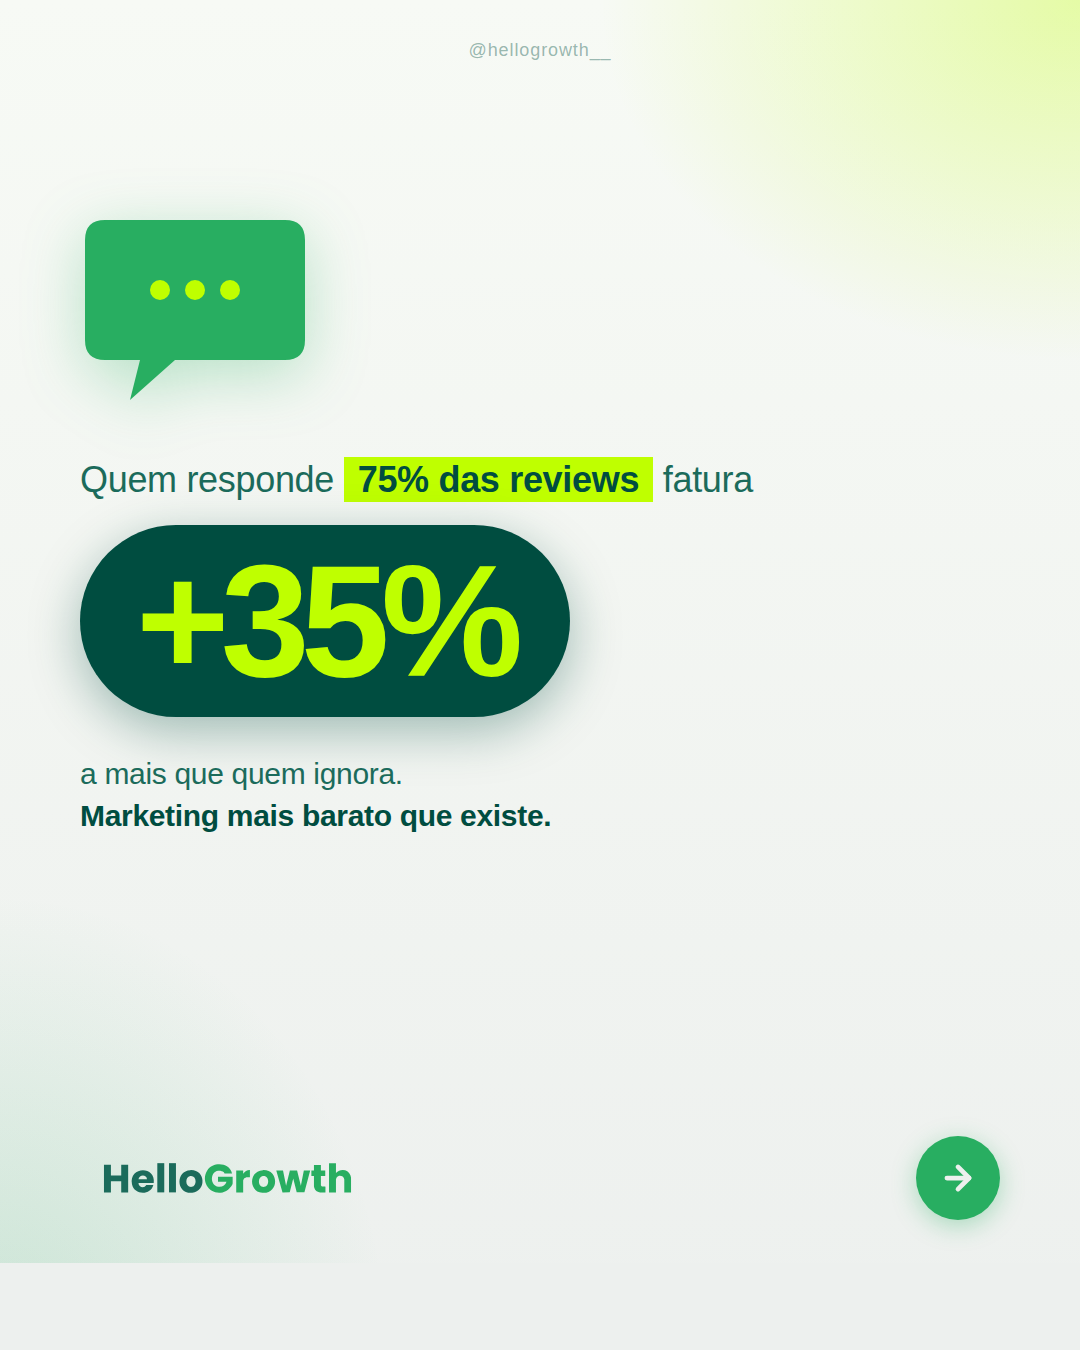
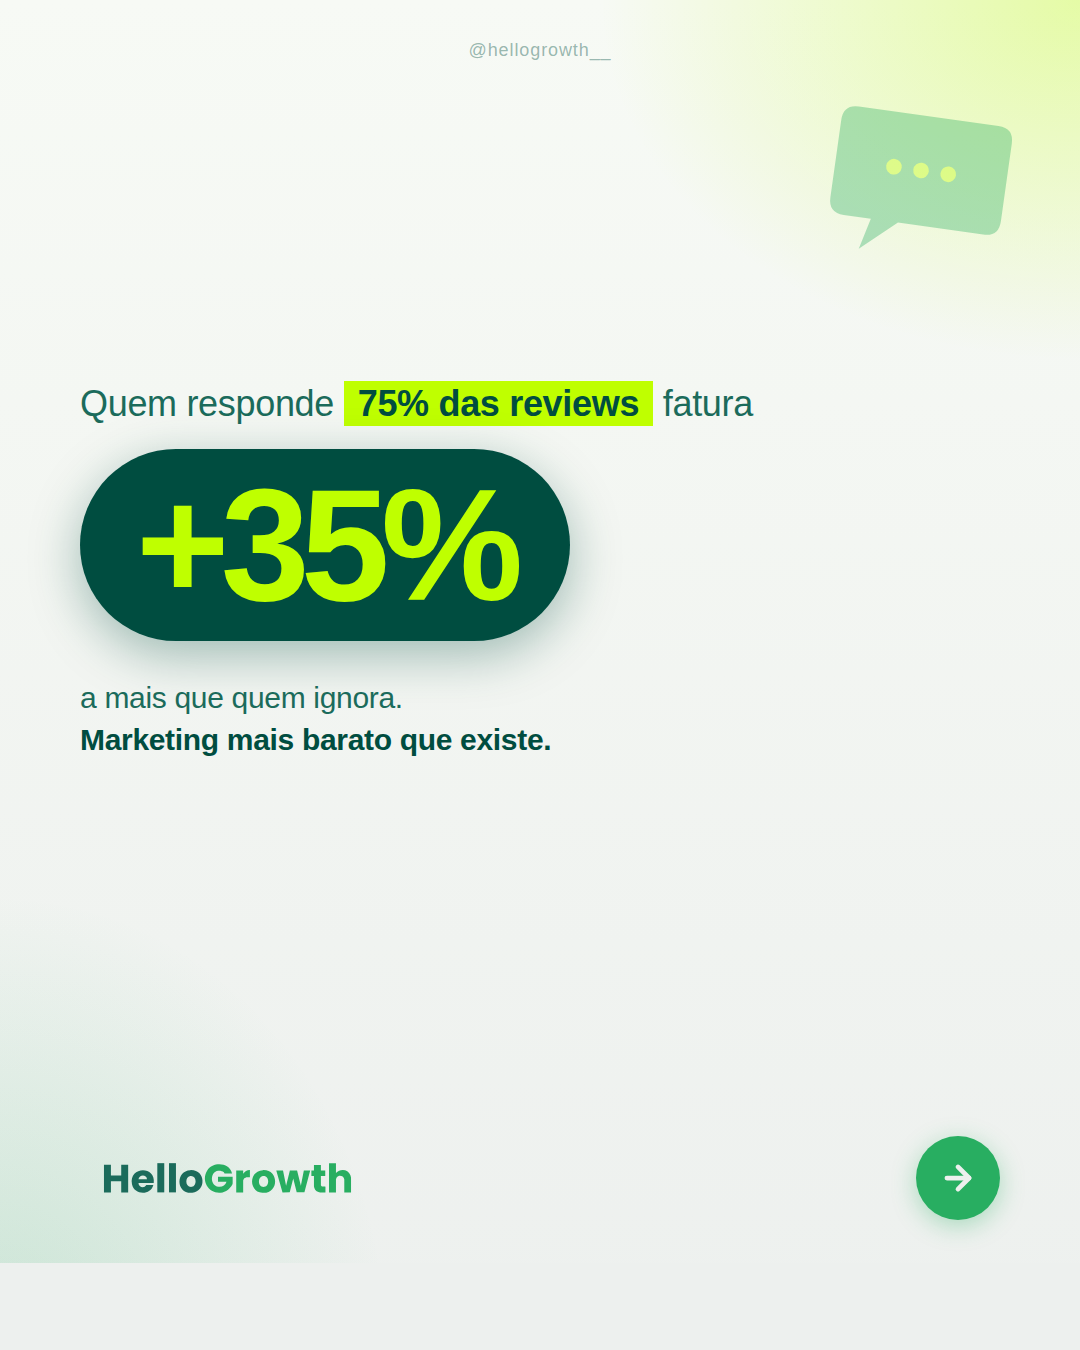
Carousel V7: final layout adjustments per review
- Card 1: enlarge Harvard badge, unify body type, tighten headline copy
- Card 2: integrate Harvard inline with intro line, switch to "5 a 9%"
- Card 3: enlarge the calculation arrow with glow
- Card 4: demote chat bubble to a faint corner decoration
- Cards 2/3/5/6: bump footer symbol to 150px
- Card 7: align CTA pill flush with text margin and fix "para seu"

https://claude.ai/code/session_01RXRUyw64HWp6pgoosUTsE4

Changed region(s): [[0.0611, 0.1556, 0.7028, 0.6222], [0.7639, 0.0622, 0.9472, 0.1867]]

diff --git a/squads/social-content/output/2026-06-03-195535/slides-brand/slide-01.html b/squads/social-content/output/2026-06-03-195535/slides-brand/slide-01.html
@@ -29,58 +29,51 @@ html, body {
   letter-spacing: 0.05em;
 }
 
-/* Harvard tag */
+/* Harvard tag - maior e mais presente */
 .harvard-tag {
-  display: inline-flex; align-items: center; gap: 14px;
-  background: rgba(255,255,255,0.7);
-  border: 2px solid rgba(164,30,34,0.25);
+  display: inline-flex; align-items: center; gap: 20px;
+  background: rgba(255,255,255,0.75);
+  border: 3px solid rgba(164,30,34,0.30);
   border-radius: 100px;
-  padding: 12px 28px 12px 14px;
-  margin-top: 90px; margin-bottom: 50px;
+  padding: 18px 40px 18px 22px;
+  margin-top: 90px; margin-bottom: 56px;
   backdrop-filter: blur(6px);
+  box-shadow: 0 8px 24px rgba(164,30,34,0.12);
 }
 .harvard-shield {
-  width: 44px; height: 50px;
+  width: 64px; height: 72px;
   background: #A41E22;
   clip-path: polygon(0 0, 100% 0, 100% 72%, 50% 100%, 0 72%);
   display: flex; align-items: flex-start; justify-content: center;
-  padding-top: 4px;
+  padding-top: 8px;
   font-family: 'Playfair Display', serif;
-  font-weight: 900; font-size: 24px;
+  font-weight: 900; font-size: 34px;
   color: #edf0ee;
 }
 .harvard-text { display: flex; flex-direction: column; line-height: 1; }
 .harvard-name {
   font-family: 'Playfair Display', serif;
-  font-weight: 700; font-size: 22px;
+  font-weight: 700; font-size: 34px;
   color: #A41E22; letter-spacing: 0;
 }
 .harvard-sub {
   font-family: 'Inter', sans-serif;
-  font-size: 12px; font-weight: 600;
+  font-size: 16px; font-weight: 600;
   color: rgba(164,30,34,0.7);
-  letter-spacing: 0.2em; text-transform: uppercase;
-  margin-top: 4px;
+  letter-spacing: 0.22em; text-transform: uppercase;
+  margin-top: 6px;
 }
 
-/* Main headline */
-.kicker {
-  font-size: 36px; font-weight: 600;
-  color: #1b6b5b; line-height: 1.2; margin-bottom: 14px;
+/* Texto único: pre e contexto no mesmo tamanho */
+.body-text {
+  font-size: 38px; font-weight: 600;
+  color: #1b6b5b; line-height: 1.3;
+  margin-bottom: 18px;
 }
 .headline-mega {
-  font-size: 220px; font-weight: 900;
-  color: #004d40; line-height: 0.88; margin-bottom: 0;
-  letter-spacing: -0.065em;
-}
-.headline-mega .ano {
-  font-size: 96px; display: block; line-height: 1.05;
-  letter-spacing: -0.045em;
-}
-.context {
-  font-size: 38px; font-weight: 600;
-  color: #1b6b5b; line-height: 1.25;
-  margin-top: 38px; margin-bottom: 16px;
+  font-size: 200px; font-weight: 900;
+  color: #004d40; line-height: 0.95; margin-bottom: 14px;
+  letter-spacing: -0.06em;
 }
 .pilula {
   display: inline-block;
@@ -91,24 +84,14 @@ html, body {
   letter-spacing: -0.025em;
   text-transform: uppercase;
   box-shadow: 6px 6px 0 rgba(40,174,97,0.30);
+  margin-top: 14px;
 }
 
-/* Bottom row: logo full + arrow */
 .bottom-row {
   position: absolute; bottom: 130px; left: 80px; right: 80px;
   display: flex; align-items: center; justify-content: space-between;
 }
-.logo-full {
-  display: flex; align-items: center; gap: 16px;
-}
-.logo-full img { height: 72px; }
-.logo-wordmark {
-  font-family: 'Inter', sans-serif;
-  font-weight: 900; font-size: 56px;
-  line-height: 1; letter-spacing: -0.045em;
-}
-.logo-wordmark .hello { color: #1b6b5b; }
-.logo-wordmark .growth { color: #28ae61; }
+.logo-full img { height: 90px; }
 .arrow-next {
   width: 92px; height: 92px;
   background: #28ae61;
@@ -131,15 +114,13 @@ html, body {
     </div>
   </div>
 
-  <div class="kicker">descobriu que cada estrela a mais vale</div>
-  <div class="headline-mega">+R$45K<span class="ano">por ano</span></div>
-
-  <div class="context">no faturamento da sua empresa.</div>
+  <div class="body-text">descobriu que, anualmente,<br>cada estrela a mais vale</div>
+  <div class="headline-mega">+R$45K</div>
   <div class="pilula">Sem 1 real em anúncio</div>
 
   <div class="bottom-row">
     <div class="logo-full">
-      <img src="assets/logo-full.svg" alt="HelloGrowth" style="height: 90px;">
+      <img src="assets/logo-full.svg" alt="HelloGrowth">
     </div>
     <div class="arrow-next">
       <svg viewBox="0 0 24 24" fill="none" stroke="#edf0ee" stroke-width="3" stroke-linecap="round" stroke-linejoin="round">

diff --git a/squads/social-content/output/2026-06-03-195535/slides-brand/slide-02.html b/squads/social-content/output/2026-06-03-195535/slides-brand/slide-02.html
@@ -34,43 +34,42 @@ html, body {
   letter-spacing: 0.05em;
 }
 
-/* Big Harvard panel */
-.harvard-panel {
-  display: flex; align-items: center; gap: 22px;
-  margin-top: 80px; margin-bottom: 70px;
+/* Harvard integrado à frase */
+.intro-line {
+  margin-top: 110px; margin-bottom: 30px;
+  font-size: 32px; font-weight: 400;
+  color: #edf0ee; line-height: 1.5;
 }
-.harvard-shield-big {
-  width: 96px; height: 110px;
+.intro-line .harvard-inline {
+  display: inline-flex; align-items: center; gap: 12px;
+  vertical-align: middle;
+  background: rgba(164,30,34,0.18);
+  border: 2px solid rgba(164,30,34,0.45);
+  border-radius: 60px;
+  padding: 6px 18px 6px 8px;
+  margin-right: 6px;
+}
+.intro-line .harvard-shield-small {
+  width: 36px; height: 42px;
   background: #A41E22;
   clip-path: polygon(0 0, 100% 0, 100% 72%, 50% 100%, 0 72%);
   display: flex; align-items: flex-start; justify-content: center;
-  padding-top: 12px;
+  padding-top: 4px;
   font-family: 'Playfair Display', serif;
-  font-weight: 900; font-size: 50px;
+  font-weight: 900; font-size: 20px;
   color: #edf0ee;
-  box-shadow: 0 10px 30px rgba(0,0,0,0.4);
 }
-.harvard-name-big {
+.intro-line .harvard-name-inline {
   font-family: 'Playfair Display', serif;
-  font-weight: 700; font-size: 46px;
-  color: #edf0ee; line-height: 1;
+  font-weight: 700; font-size: 30px;
+  color: #edf0ee; letter-spacing: 0;
 }
-.harvard-sub-big {
-  font-size: 16px; font-weight: 600;
-  color: rgba(237,240,238,0.55);
-  letter-spacing: 0.3em; text-transform: uppercase;
-  margin-top: 8px;
-}
+.intro-line .accent { color: #bfff00; font-weight: 700; }
 
-.pre-headline {
-  font-size: 32px; font-weight: 400;
-  color: #edf0ee; margin-bottom: 24px; line-height: 1.35;
-}
-.pre-headline .accent { color: #bfff00; font-weight: 700; }
 .headline-big {
   font-size: 240px; font-weight: 900;
-  color: #bfff00; line-height: 0.95; margin-bottom: 14px;
-  letter-spacing: -0.06em;
+  color: #bfff00; line-height: 0.95; margin-top: 30px; margin-bottom: 14px;
+  letter-spacing: -0.045em;
   text-shadow: 0 0 60px rgba(191,255,0,0.25);
 }
 .headline {
@@ -83,12 +82,11 @@ html, body {
   margin-top: 30px; line-height: 1.4; font-style: italic;
 }
 
-/* Footer logo (just symbol) + arrow */
 .bottom-row {
   position: absolute; bottom: 130px; left: 80px; right: 80px;
   display: flex; align-items: center; justify-content: space-between;
 }
-.logo-symbol-only img { height: 120px; }
+.logo-symbol-only img { height: 150px; }
 .logo-symbol-only { display: flex; align-items: center; }
 .arrow-next {
   width: 84px; height: 84px;
@@ -105,16 +103,14 @@ html, body {
   <div class="noise"></div>
   <div class="handle">@hellogrowth__</div>
 
-  <div class="harvard-panel">
-    <div class="harvard-shield-big">H</div>
-    <div>
-      <div class="harvard-name-big">Harvard</div>
-      <div class="harvard-sub-big">Business School</div>
-    </div>
+  <div class="intro-line">
+    A <span class="harvard-inline">
+      <span class="harvard-shield-small">H</span>
+      <span class="harvard-name-inline">Harvard</span>
+    </span><br>analisou <span class="accent">milhares de empresas</span> e descobriu:
   </div>
 
-  <div class="pre-headline">analisou <span class="accent">milhares de empresas</span> e encontrou:</div>
-  <div class="headline-big">+5–9%</div>
+  <div class="headline-big">+5 a 9%</div>
   <div class="headline">DE RECEITA POR<br>CADA ESTRELA A MAIS</div>
   <div class="sub">Não é palpite. É estudo seminal de reputação corporativa.</div>
 

diff --git a/squads/social-content/output/2026-06-03-195535/slides-brand/slide-03.html b/squads/social-content/output/2026-06-03-195535/slides-brand/slide-03.html
@@ -63,8 +63,9 @@ html, body {
 .calc-value { font-size: 40px; font-weight: 900; color: #edf0ee; }
 .equals {
   text-align: center;
-  font-size: 56px; color: #bfff00; margin: 10px 0;
+  font-size: 100px; color: #bfff00; margin: 4px 0;
   font-weight: 900; line-height: 1;
+  text-shadow: 0 0 30px rgba(191,255,0,0.4);
 }
 .result-pilula {
   display: block; text-align: center;
@@ -85,7 +86,7 @@ html, body {
   position: absolute; bottom: 130px; left: 80px; right: 80px;
   display: flex; align-items: center; justify-content: space-between;
 }
-.logo-symbol-only img { height: 120px; }
+.logo-symbol-only img { height: 150px; }
 .arrow-next {
   width: 84px; height: 84px;
   background: #bfff00;

diff --git a/squads/social-content/output/2026-06-03-195535/slides-brand/slide-07.html b/squads/social-content/output/2026-06-03-195535/slides-brand/slide-07.html
@@ -50,6 +50,7 @@ html, body {
   letter-spacing: -0.025em; line-height: 1;
   box-shadow: 0 14px 40px rgba(0,77,64,0.30);
   margin-bottom: 38px;
+  margin-left: -38px;
 }
 .sub {
   font-size: 30px; font-weight: 500;
@@ -82,7 +83,7 @@ html, body {
 
   <div class="content">
     <div class="kicker">Quanto vale 1 estrela</div>
-    <div class="headline">pro seu<br>negócio?</div>
+    <div class="headline">para seu<br>negócio?</div>
     <div class="pilula">VAMOS DESCOBRIR JUNTOS</div>
     <div class="sub">Reputação é infraestrutura de venda.<br><strong>Toca no link da bio</strong> e a gente conversa.</div>
   </div>

diff --git a/squads/social-content/output/2026-06-03-195535/slides-brand/slide-04.html b/squads/social-content/output/2026-06-03-195535/slides-brand/slide-04.html
@@ -30,16 +30,18 @@ html, body {
 }
 
 .chat-bubble {
-  margin-top: 100px;
-  width: 230px;
-  filter: drop-shadow(0 14px 30px rgba(40,174,97,0.30));
+  position: absolute;
+  top: 100px; right: 70px;
+  width: 180px;
+  opacity: 0.35;
+  transform: rotate(8deg);
 }
 .chat-bubble svg { width: 100%; height: auto; display: block; }
 
 .pre-headline {
   font-size: 36px; font-weight: 500;
   color: #1b6b5b; line-height: 1.35;
-  margin-top: 56px; margin-bottom: 20px;
+  margin-top: 280px; margin-bottom: 20px;
 }
 .pre-headline .accent {
   background: #bfff00;

diff --git a/squads/social-content/output/2026-06-03-195535/slides-brand/slide-05.html b/squads/social-content/output/2026-06-03-195535/slides-brand/slide-05.html
@@ -69,7 +69,7 @@ html, body {
   position: absolute; bottom: 130px; left: 80px; right: 80px;
   display: flex; align-items: center; justify-content: space-between;
 }
-.logo-symbol-only img { height: 120px; }
+.logo-symbol-only img { height: 150px; }
 .arrow-next {
   width: 84px; height: 84px;
   background: #bfff00;

diff --git a/squads/social-content/output/2026-06-03-195535/slides-brand/slide-06.html b/squads/social-content/output/2026-06-03-195535/slides-brand/slide-06.html
@@ -79,7 +79,7 @@ html, body {
   position: absolute; bottom: 130px; left: 80px; right: 80px;
   display: flex; align-items: center; justify-content: space-between;
 }
-.logo-symbol-only img { height: 120px; }
+.logo-symbol-only img { height: 150px; }
 .arrow-next {
   width: 84px; height: 84px;
   background: #bfff00;
